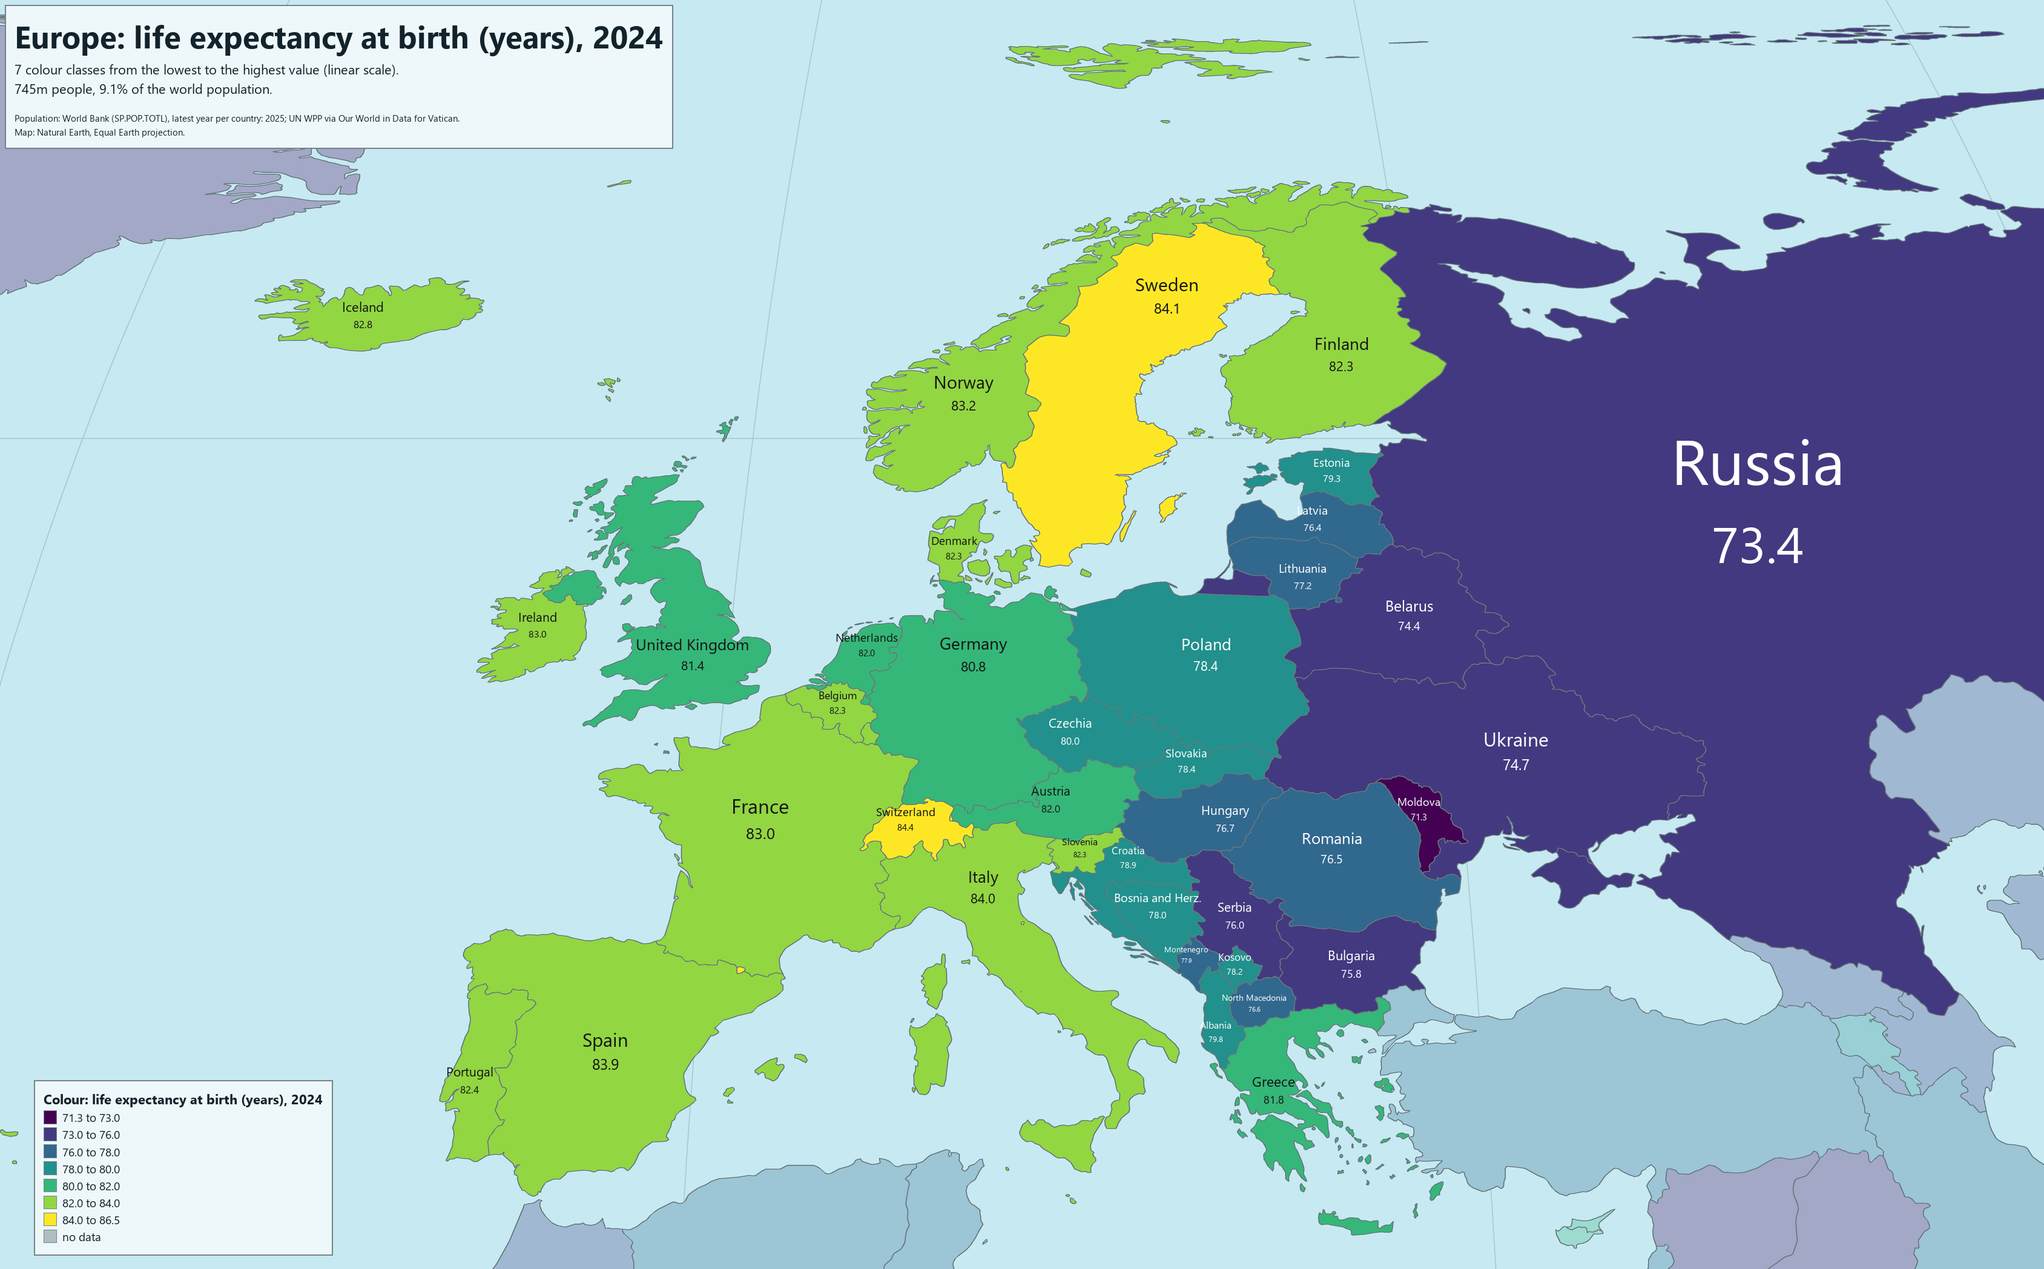
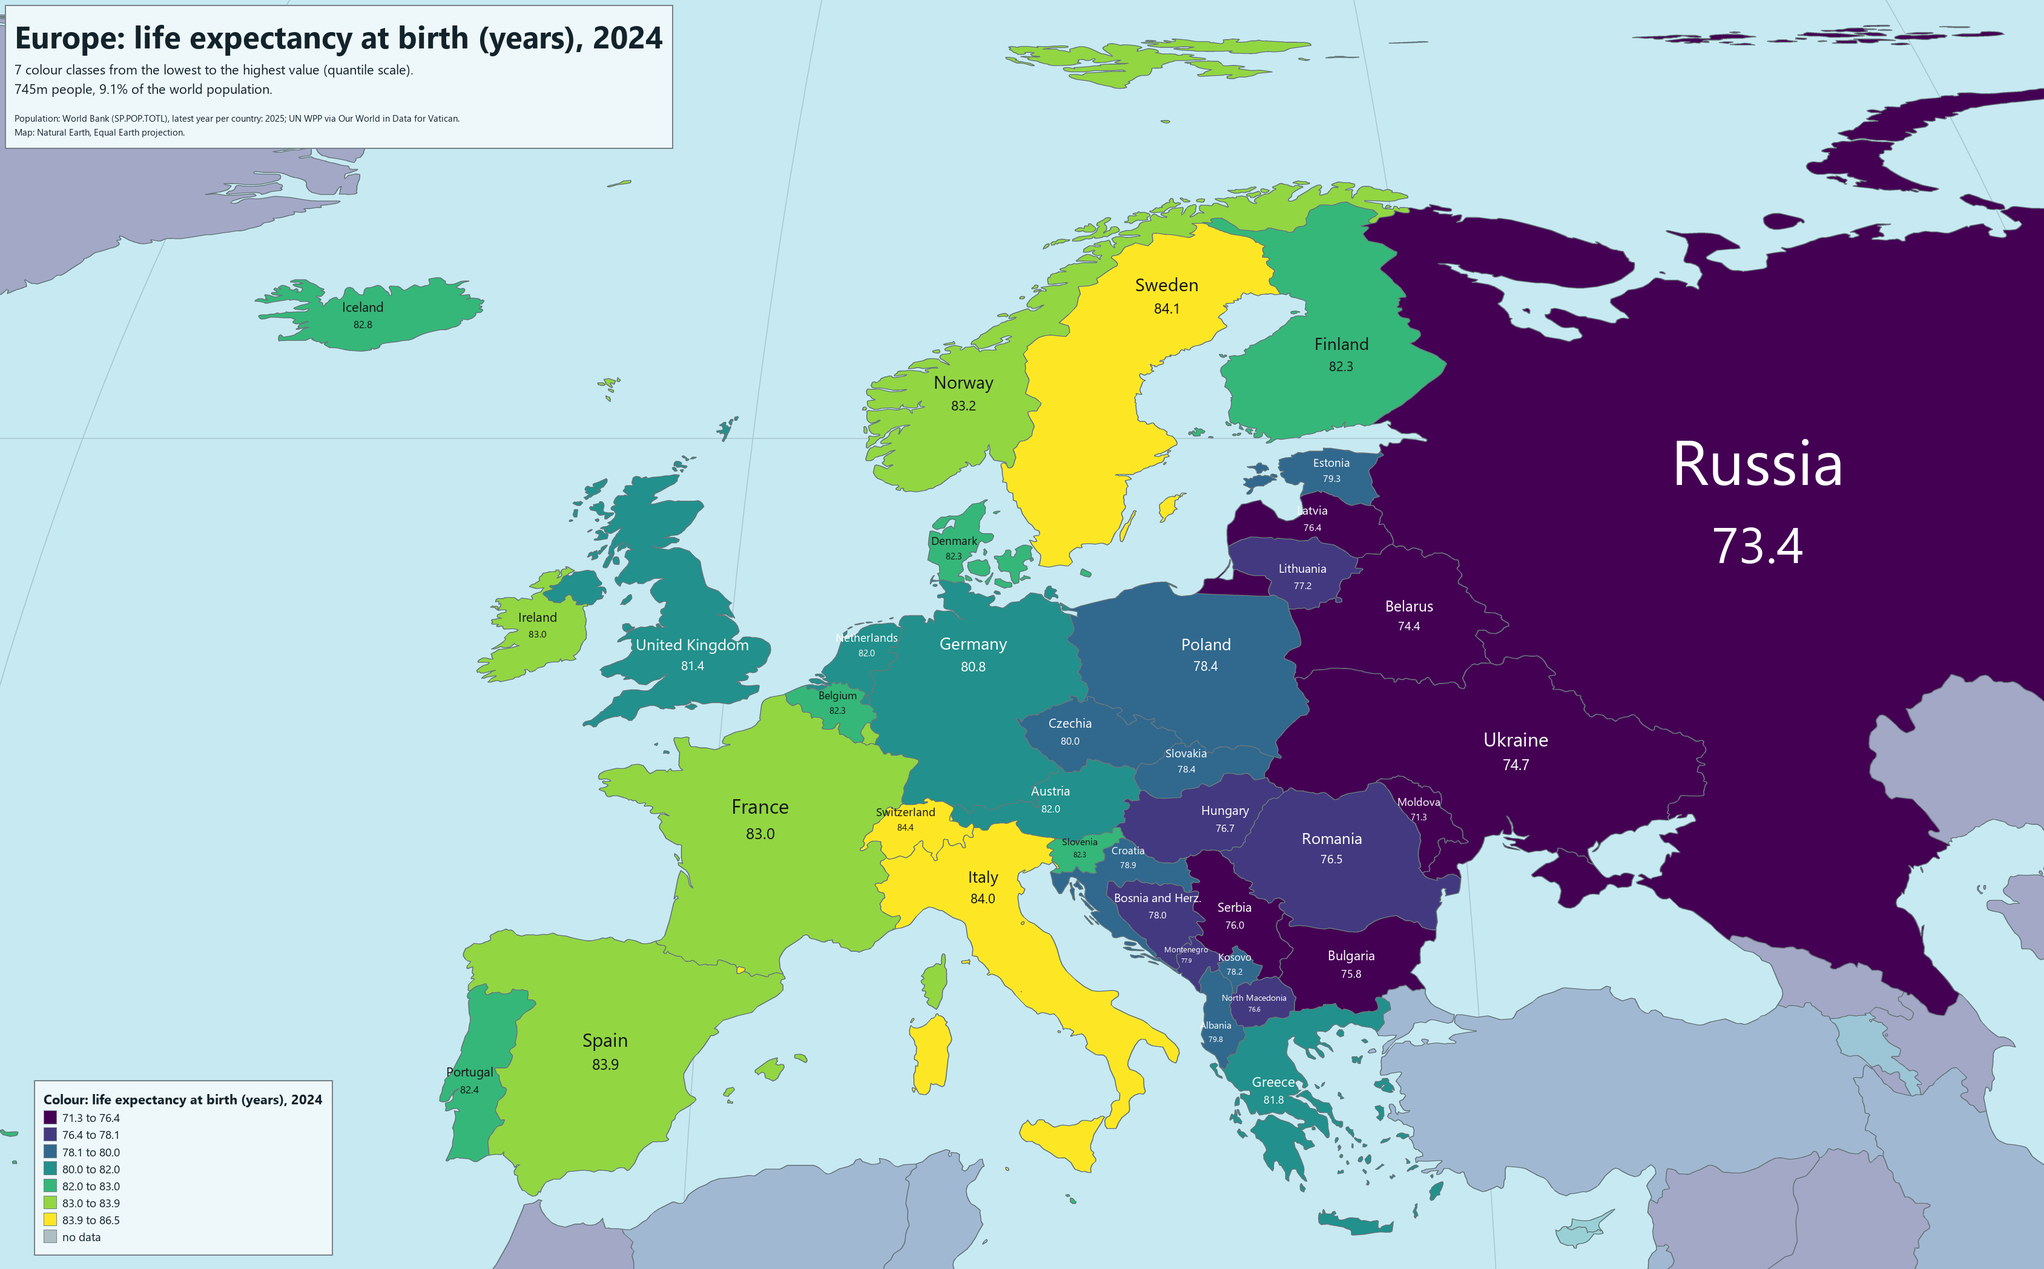
Equal-count class breaks by default, Jenks natural breaks, three more projections
--breaks quantile (now the default everywhere) cuts the ranking every n/k countries,
--breaks jenks finds natural breaks (Fisher's exact method, on the log of positive
values); both put each limit at the roundest number between neighbouring countries,
so counts are exact. log/linear warn about empty classes. New --projection values:
equirectangular, miller, gall-peters.

diff --git a/population_cartogram.py b/population_cartogram.py
@@ -163,7 +163,8 @@ TEXTS = {
         "title_map_by": "{region}: {what}",
         "world": "World",
         "map_scale": "{n} colour classes from the lowest to the highest value ({breaks} scale).",
-        "breaks": {"log": "logarithmic", "linear": "linear", "quantile": "quantile"},
+        "breaks": {"log": "logarithmic", "linear": "linear", "quantile": "quantile",
+                   "jenks": "Jenks natural breaks"},
         "map_world": "World population: {total}.",
         "map_geo": "Map: Natural Earth, {proj} projection.",
         "population": "population",
@@ -211,7 +212,8 @@ TEXTS = {
         "title_map_by": "{region}: {what}",
         "world": "Mundo",
         "map_scale": "{n} classes de cor, do menor ao maior valor (escala {breaks}).",
-        "breaks": {"log": "logarítmica", "linear": "linear", "quantile": "por quantis"},
+        "breaks": {"log": "logarítmica", "linear": "linear", "quantile": "por quantis",
+                   "jenks": "de quebras naturais de Jenks"},
         "map_world": "População mundial: {total}.",
         "map_geo": "Mapa: Natural Earth, projeção {proj}.",
         "population": "população",
@@ -259,7 +261,8 @@ TEXTS = {
         "title_map_by": "{region}: {what}",
         "world": "Mundo",
         "map_scale": "{n} clases de color, del menor al mayor valor (escala {breaks}).",
-        "breaks": {"log": "logarítmica", "linear": "lineal", "quantile": "por cuantiles"},
+        "breaks": {"log": "logarítmica", "linear": "lineal", "quantile": "por cuantiles",
+                   "jenks": "de cortes naturales de Jenks"},
         "map_world": "Población mundial: {total}.",
         "map_geo": "Mapa: Natural Earth, proyección {proj}.",
         "population": "población",
@@ -1394,7 +1397,8 @@ def layout_outlines(units, frame, lab, pix, y, x, pops, per_cell, rho_bar):
 # Geographic map (--style map): undistorted countries coloured by a value
 # ---------------------------------------------------------------------------
 PROJECTIONS = {"equal-earth": "Equal Earth", "mercator": "Mercator", "web-mercator": "Web Mercator",
-               "winkel-tripel": "Winkel Tripel", "robinson": "Robinson", "mollweide": "Mollweide"}
+               "winkel-tripel": "Winkel Tripel", "robinson": "Robinson", "mollweide": "Mollweide",
+               "equirectangular": "Equirectangular", "miller": "Miller", "gall-peters": "Gall–Peters"}
 MERCATOR_LAT = 85.0511                 # Web Mercator's limit (the whole map is a square)
 WGS84_E = 0.0818191908426              # eccentricity of the WGS 84 ellipsoid
 # Robinson's table: length of the parallel and distance from the equator, every 5 degrees
@@ -1427,6 +1431,12 @@ def project(name, lon, lat):
             es = WGS84_E * np.sin(phi)
             y = y + WGS84_E / 2 * np.log((1 - es) / (1 + es))
         return lam, y
+    if name == "equirectangular":      # plate carree: longitude and latitude as they are
+        return lam, phi
+    if name == "miller":               # Mercator with latitudes * 0.8, so the poles fit
+        return lam, 1.25 * np.log(np.tan(np.pi / 4 + 0.4 * phi))
+    if name == "gall-peters":          # cylindrical equal-area, true scale at 45 degrees
+        return lam * math.cos(math.pi / 4), np.sin(phi) / math.cos(math.pi / 4)
     if name == "robinson":
         a = np.abs(lat)
         return 0.8487 * ROBINSON_PLEN(a) * lam, 1.3523 * ROBINSON_PDFE(a) * np.sign(lat)
@@ -2641,7 +2651,7 @@ def thematic_spec(arg, units, T, tx, info, ctx):
     if len(on_map) == 0:
         sys.exit("--color-by: no values for the countries on the map")
     full = ctx.get("full_range", False)
-    method = ctx.get("breaks") or ("quantile" if not full else "log" if arg == "population" else "linear")
+    method = ctx.get("breaks") or "quantile"
     if method == "log" and on_map.min() <= 0:
         log("  --breaks log needs values above zero; using linear")
         method = "linear"
@@ -2665,19 +2675,73 @@ def thematic_spec(arg, units, T, tx, info, ctx):
 def class_edges(v, k, method):
     """Limits between k classes of the values v: equal steps between the lowest
     and the highest value (linear, or log for very uneven values like population),
-    or the same number of countries in each class (quantile). Rounded to one or
-    two significant digits."""
+    the same number of countries in each class (quantile) or the groups that keep
+    similar values together (jenks, on the logarithm of positive values). Rounded to one or two significant digits;
+    quantile and jenks limits are the roundest number between the two countries
+    on either side, so no country changes class."""
     lo, hi = float(v.min()), float(v.max())
+    if method in ("quantile", "jenks"):
+        s = np.sort(np.asarray(v, float))
+        if method == "quantile":     # rank the countries and cut every len / k places
+            cut = np.rint(np.arange(1, k) * len(s) / k).astype(int)
+        else:                        # on the logarithm when it can, or China and India get classes alone
+            cut = jenks_cuts(np.log(s) if lo > 0 else s, k)
+        edges = sorted(set(roundest(s[c - 1], s[c]) for c in cut if 0 < c < len(s) and s[c - 1] < s[c]))
+        empty = k - 1 - len(edges)
+        if empty:
+            log(f"  {empty} class limit(s) dropped: too many countries share the same value")
+        return edges
     if method == "log":
         e = np.exp(np.linspace(math.log(lo), math.log(hi), k + 1))[1:-1]
-    elif method == "linear":
-        e = np.linspace(lo, hi, k + 1)[1:-1]
     else:
-        e = np.quantile(v, np.linspace(0, 1, k + 1)[1:-1])
+        e = np.linspace(lo, hi, k + 1)[1:-1]
     one = sorted(set(nice1(q) for q in e))
-    if method == "log" and len(one) == len(e):
-        return one
-    return sorted(set(nice(q) for q in e))
+    edges = one if method == "log" and len(one) == len(e) else sorted(set(nice(q) for q in e))
+    used = len(set(np.digitize(v, edges)))
+    if used < len(edges) + 1:
+        log(f"  {len(edges) + 1 - used} of {len(edges) + 1} classes have no country; "
+            "--breaks quantile or jenks fill them all")
+    return edges
+
+
+def roundest(a, b):
+    """The number with the fewest significant digits in (a, b]."""
+    if a < 0 <= b:
+        return 0.0
+    top = math.floor(math.log10(max(abs(a), abs(b))))
+    for d in range(17):
+        x = (math.floor(a / 10.0 ** (top - d)) + 1) * 10.0 ** (top - d)
+        if x <= b:
+            return float(f"{x:.{max(0, d - top)}f}")
+    return b
+
+
+def jenks_cuts(s, k):
+    """Fisher-Jenks natural breaks of the sorted values s: the k groups with the
+    smallest total squared distance to their own mean. Returns the index where
+    each group after the first starts."""
+    n = len(s)
+    k = min(k, n)
+    c1, c2 = np.r_[0, np.cumsum(s)], np.r_[0, np.cumsum(s * s)]
+
+    def cost(i, j):                  # values s[i:j], vectorised over i
+        m = j - i
+        return c2[j] - c2[i] - (c1[j] - c1[i]) ** 2 / m
+
+    best = np.full((k + 1, n + 1), np.inf)
+    start = np.zeros((k + 1, n + 1), int)
+    best[1, 1:] = [cost(0, j) for j in range(1, n + 1)]
+    for g in range(2, k + 1):
+        for j in range(g, n + 1):
+            i = np.arange(g - 1, j)
+            tot = best[g - 1, i] + cost(i, j)
+            b = int(np.argmin(tot))
+            best[g, j], start[g, j] = tot[b], i[b]
+    cuts, j = [], n
+    for g in range(k, 1, -1):
+        j = start[g, j]
+        cuts.append(j)
+    return cuts[::-1]
 
 
 def crop_region(layout, region_key, tx):
@@ -2737,10 +2801,10 @@ def main(argv=None):
                     help="centre longitude of --style map (default: 0, or the middle of --region)")
     ap.add_argument("--classes", type=int, metavar="N",
                     help="number of colour classes for values (default: 7 on --style map, 6 otherwise)")
-    ap.add_argument("--breaks", choices=["log", "linear", "quantile"],
-                    help="class limits: equal steps from the lowest to the highest value (log or linear) or "
-                         "the same number of countries per class (quantile). Default on --style map: log for "
-                         "population, linear for the rest; quantile otherwise")
+    ap.add_argument("--breaks", choices=["quantile", "jenks", "log", "linear"],
+                    help="class limits: the same number of countries per class (quantile, default), natural "
+                         "groups of similar values (jenks), or equal steps from the lowest to the highest "
+                         "value (log or linear; some classes may have no country)")
     ap.add_argument("--ramp", metavar="NAME",
                     help=f"colour scale for values: palette (the palette's own), {', '.join(RAMPS)}; "
                          "add _r to reverse it (default: palette)")

diff --git a/README.pt.md b/README.pt.md
@@ -43,7 +43,9 @@ Este mapa não existiria sem:
   The Professional Geographer 37 (1985).
 - **Paleta para daltónicos**: Okabe & Ito e Paul Tol.
 - **Estilo de mapa**: projeções Equal Earth (Šavrič, Patterson & Jenny, 2018), Robinson (1963),
-  Winkel Tripel (1921), Mollweide (1805) e Mercator. Escalas de cor: Viridis, Magma e Cividis
+  Winkel Tripel (1921), Mollweide (1805), Mercator, Miller (1942), Gall–Peters (Gall 1855,
+  Peters 1973) e equirretangular. Quebras naturais: G. F. Jenks (1967), calculadas de forma exata
+  com o método de W. D. Fisher (1958). Escalas de cor: Viridis, Magma e Cividis
   (matplotlib), Turbo (Google, usada em `rainbow`) e ColorBrewer (Cynthia Brewer).
 
 ## Utilização
@@ -107,11 +109,17 @@ python population_cartogram.py --style map --region europe --color-by life --ram
 - **Projeções** (`--projection`): `equal-earth` (padrão; equivalente, por isso não exagera os países
   grandes), `robinson`, `winkel-tripel` (a dos mapas-mundo da National Geographic), `mollweide`
   (equivalente), `mercator` e `web-mercator` (mapas online; aumentam muito a Gronelândia, o Canadá
-  e a Rússia). `--central-meridian 150` centra o mapa no Pacífico.
+  e a Rússia), `miller` (um Mercator atenuado, para os polos caberem), `gall-peters` (equivalente,
+  esticada na vertical nos trópicos) e `equirectangular` (plate carrée: longitude e latitude numa
+  grelha simples). `--central-meridian 150` centra o mapa no Pacífico.
 - **Classes** (`--classes N`, 2 a 12, padrão 7): a escala vai do menor ao maior valor dos países
-  mostrados. `--breaks log` (padrão para a população, que vai de umas centenas de pessoas a 1,4 mil
-  milhões) faz passos iguais numa escala logarítmica; `linear` (padrão para os outros valores) passos
-  iguais; `quantile` o mesmo número de países em cada classe.
+  mostrados. `--breaks quantile` (padrão) ordena os países e dá a cada classe o mesmo número deles —
+  com 233 países e 9 classes, 26 em cada — para nenhuma classe ficar vazia; cada limite é o número
+  mais redondo entre o último país de uma classe e o primeiro da seguinte. `jenks` (quebras
+  naturais) põe os limites nos maiores saltos entre valores, juntando países parecidos (numa escala
+  logarítmica para valores positivos). `log` e `linear` fazem passos iguais; com valores tão
+  desiguais como a população, a maioria dos países cai em poucas classes e algumas podem ficar
+  vazias (o registo diz quantas).
 - **Cores** (`--ramp`): `palette` (a escala da própria paleta, padrão), gradientes `blues`,
   `greens`, `reds`, `ylorrd`, `ylgnbu`, as perceptualmente uniformes `viridis`, `magma` e
   `cividis` (legíveis por daltónicos) e as escalas arco-íris `rainbow` (Turbo) e `spectral`.
@@ -177,10 +185,10 @@ o ficheiro poder ser reestilizado ou reutilizado numa página web. Ver
 | `--list-palettes` | Lista as paletas, procura cores parecidas e termina |
 | `--style squares\|outlines\|map` | `squares` (padrão): um quadrado por 500 000 pessoas. `outlines`: contornos dos países com área proporcional à população. `map`: mapa geográfico normal pintado pela população |
 | `--layout 2018\|auto` | Só quadrados. `2018` (padrão): disposição de 2018 atualizada. `auto`: calcula um cartograma novo a partir do mapa geográfico |
-| `--projection NOME` | Só `--style map`: `equal-earth` (padrão), `mercator`, `web-mercator`, `winkel-tripel`, `robinson`, `mollweide` |
+| `--projection NOME` | Só `--style map`: `equal-earth` (padrão), `mercator`, `web-mercator`, `winkel-tripel`, `robinson`, `mollweide`, `miller`, `gall-peters`, `equirectangular` |
 | `--central-meridian GRAUS` | Só `--style map`: longitude ao centro (padrão 0, ou o meio da `--region`) |
 | `--classes N` | Número de classes de cor, 2–12 (padrão 7 em `--style map`, 6 nos outros) |
-| `--breaks log\|linear\|quantile` | Como se cortam as classes (padrão: `log` para a população e `linear` para os outros valores em `--style map`; `quantile` nos cartogramas) |
+| `--breaks quantile\|jenks\|log\|linear` | Como se cortam as classes: o mesmo número de países por classe (`quantile`, padrão), quebras naturais (`jenks`) ou passos iguais (`log`, `linear`) |
 | `--ramp NOME` | Escala de cor: `palette`, `viridis`, `magma`, `cividis`, `blues`, `greens`, `reds`, `ylorrd`, `ylgnbu`, `rainbow`, `spectral`; `_r` inverte-a |
 | `--year AAAA` | População desse ano (1950–2100); depois dos números mais recentes, a projeção da ONU |
 | `--region NOME` | Só um continente: `africa`, `asia`, `europe`, `north-america`, `south-america`, `americas`, `oceania` |

diff --git a/README.md b/README.md
@@ -42,7 +42,9 @@ This map would not exist without:
   The Professional Geographer 37 (1985).
 - **Colour-blind palette**: Okabe & Ito and Paul Tol.
 - **Map style**: Equal Earth (Šavrič, Patterson & Jenny, 2018), Robinson (1963), Winkel Tripel
-  (1921), Mollweide (1805) and Mercator projections. Colour ramps: Viridis, Magma and Cividis
+  (1921), Mollweide (1805), Mercator, Miller (1942), Gall–Peters (Gall 1855, Peters 1973) and
+  equirectangular projections. Natural breaks: G. F. Jenks (1967), computed exactly with
+  W. D. Fisher's method (1958). Colour ramps: Viridis, Magma and Cividis
   (matplotlib), Turbo (Google, used for `rainbow`) and ColorBrewer (Cynthia Brewer).
 
 ## Usage
@@ -106,11 +108,17 @@ python population_cartogram.py --style map --region europe --color-by life --ram
 - **Projections** (`--projection`): `equal-earth` (default; equal-area, so large countries are
   not exaggerated), `robinson`, `winkel-tripel` (National Geographic's world maps), `mollweide`
   (equal-area), `mercator` and `web-mercator` (online maps; they greatly enlarge Greenland,
-  Canada and Russia). `--central-meridian 150` centres the map on the Pacific.
+  Canada and Russia), `miller` (Mercator toned down so the poles fit), `gall-peters`
+  (equal-area, stretched north–south in the tropics) and `equirectangular` (plate carrée:
+  longitude and latitude as a plain grid). `--central-meridian 150` centres the map on the Pacific.
 - **Classes** (`--classes N`, 2 to 12, default 7): the scale runs from the lowest to the highest
-  value of the countries shown. `--breaks log` (default for population, which goes from a few
-  hundred people to 1.4 billion) makes equal steps on a logarithmic scale; `linear` (default for
-  other values) equal steps; `quantile` the same number of countries in every class.
+  value of the countries shown. `--breaks quantile` (default) ranks the countries and gives every
+  class the same number of them — with 233 countries and 9 classes, 26 in each — so no class is
+  left empty; each limit is the roundest number between the last country of one class and the
+  first of the next. `jenks` (natural breaks) puts the limits in the widest gaps between values,
+  keeping similar countries together (on a logarithmic scale for positive values). `log` and
+  `linear` make equal steps; with values as uneven as population, most countries fall in a few
+  classes and some classes may stay empty (the log says how many).
 - **Colours** (`--ramp`): `palette` (the palette's own ramp, default), gradients `blues`,
   `greens`, `reds`, `ylorrd`, `ylgnbu`, the perceptually uniform `viridis`, `magma` and `cividis`
   (also readable by colour-blind people), and the rainbow scales `rainbow` (Turbo) and
@@ -176,10 +184,10 @@ tooltip, so the file can be restyled or reused on a web page. See
 | `--list-palettes` | List the palettes, check them for colours that look alike, and exit |
 | `--style squares\|outlines\|map` | `squares` (default): one square per 500,000 people. `outlines`: smooth country outlines with areas proportional to population. `map`: ordinary geographic map coloured by population |
 | `--layout 2018\|auto` | Squares only. `2018` (default): the 2018 layout updated to the latest figures. `auto`: compute a new cartogram from the geographic map |
-| `--projection NAME` | `--style map` only: `equal-earth` (default), `mercator`, `web-mercator`, `winkel-tripel`, `robinson`, `mollweide` |
+| `--projection NAME` | `--style map` only: `equal-earth` (default), `mercator`, `web-mercator`, `winkel-tripel`, `robinson`, `mollweide`, `miller`, `gall-peters`, `equirectangular` |
 | `--central-meridian DEG` | `--style map` only: longitude at the centre (default 0, or the middle of `--region`) |
 | `--classes N` | Number of colour classes, 2–12 (default 7 on `--style map`, 6 otherwise) |
-| `--breaks log\|linear\|quantile` | How the classes are cut (default: `log` for population and `linear` for other values on `--style map`; `quantile` on the cartograms) |
+| `--breaks quantile\|jenks\|log\|linear` | How the classes are cut: same number of countries per class (`quantile`, default), natural breaks (`jenks`) or equal steps (`log`, `linear`) |
 | `--ramp NAME` | Colour scale: `palette`, `viridis`, `magma`, `cividis`, `blues`, `greens`, `reds`, `ylorrd`, `ylgnbu`, `rainbow`, `spectral`; `_r` reverses it |
 | `--year YYYY` | Population of that year (1950–2100); after the latest figures, the UN projection |
 | `--region NAME` | Only one continent: `africa`, `asia`, `europe`, `north-america`, `south-america`, `americas`, `oceania` |
